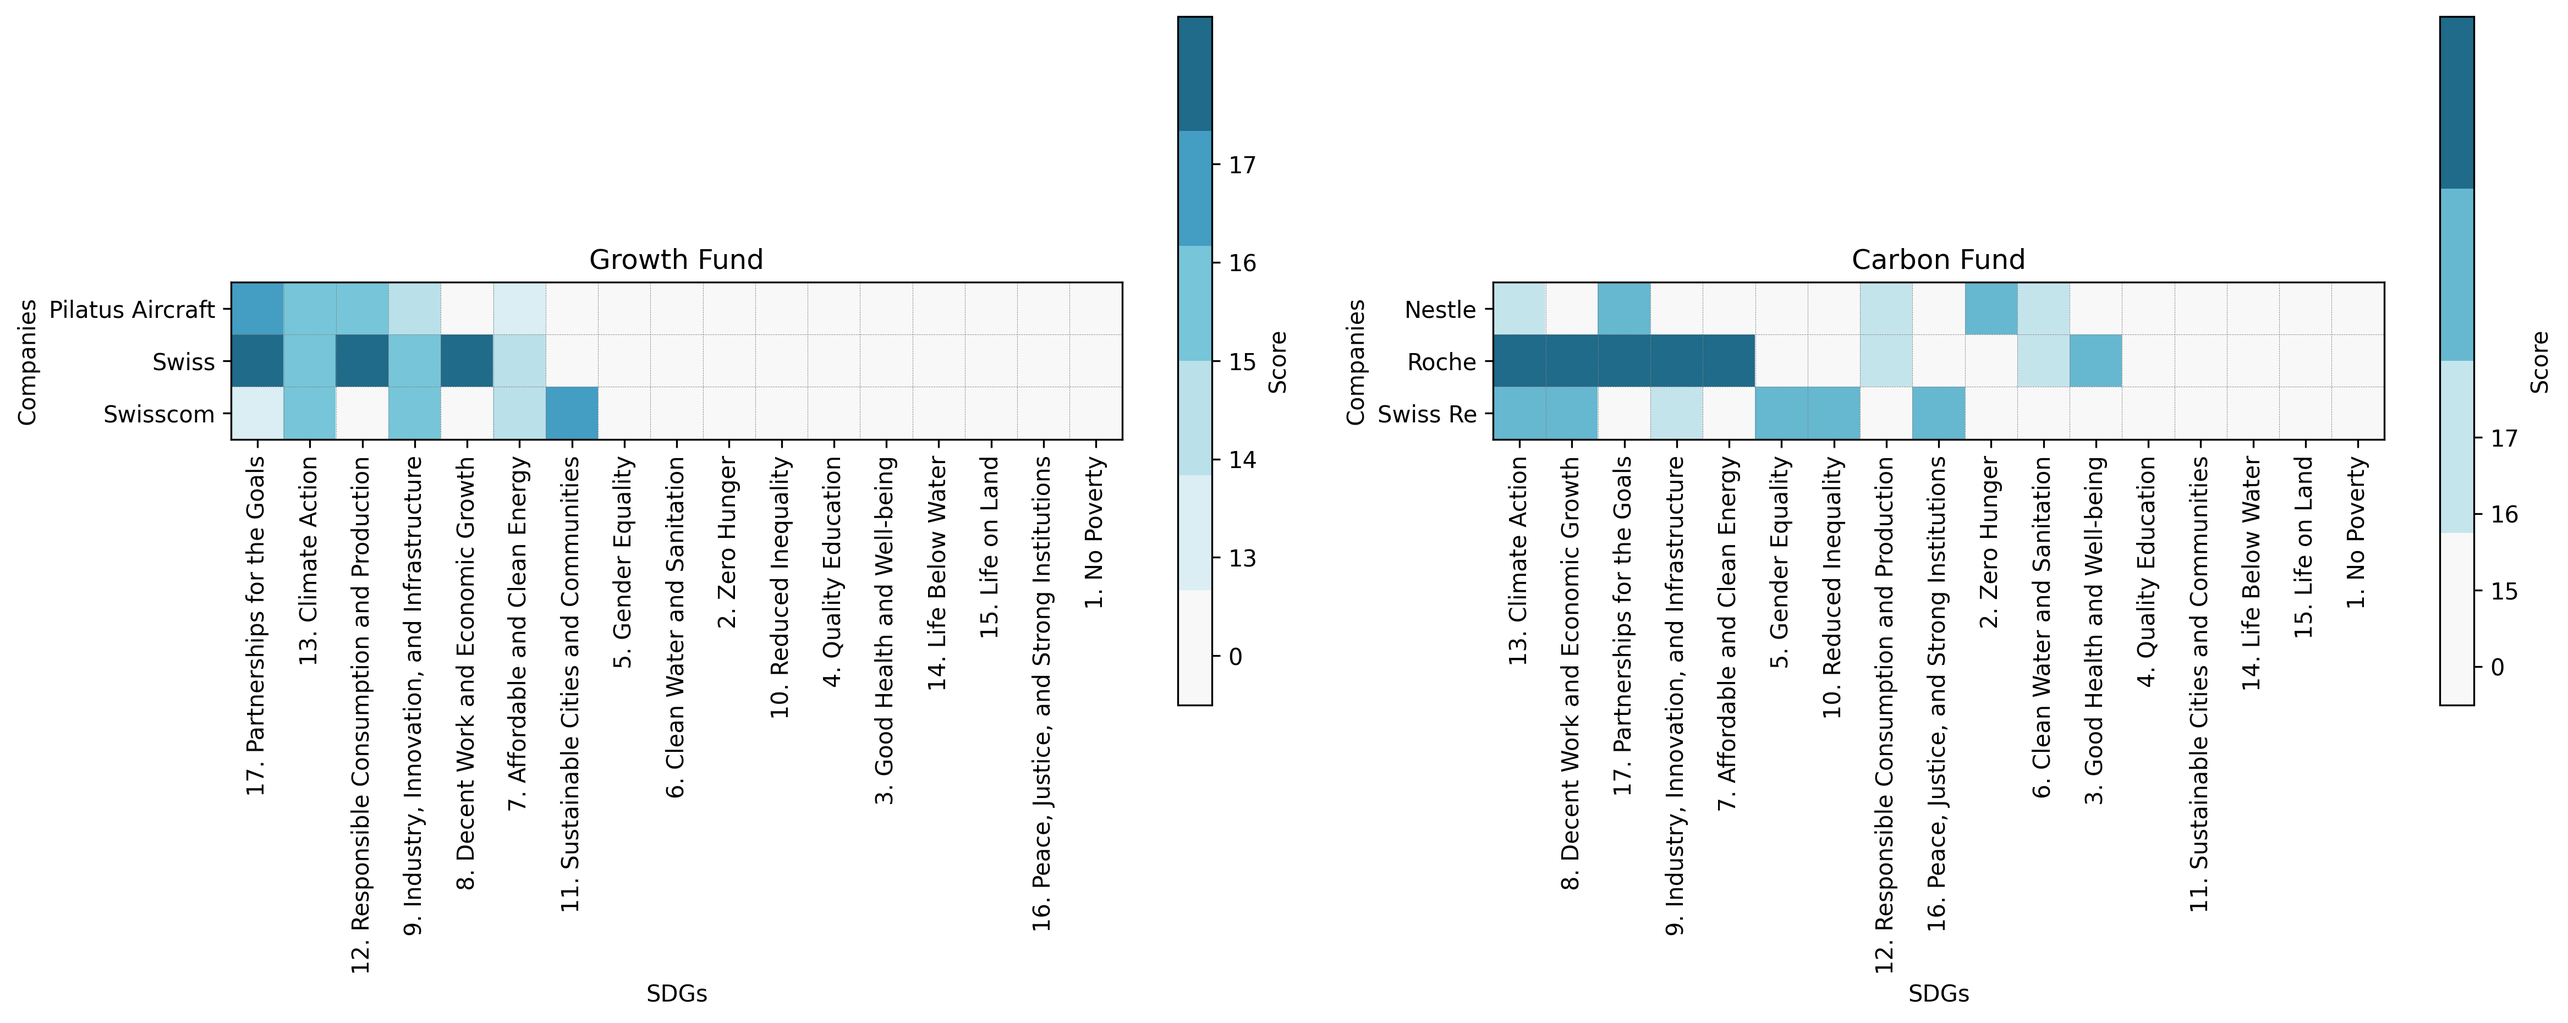
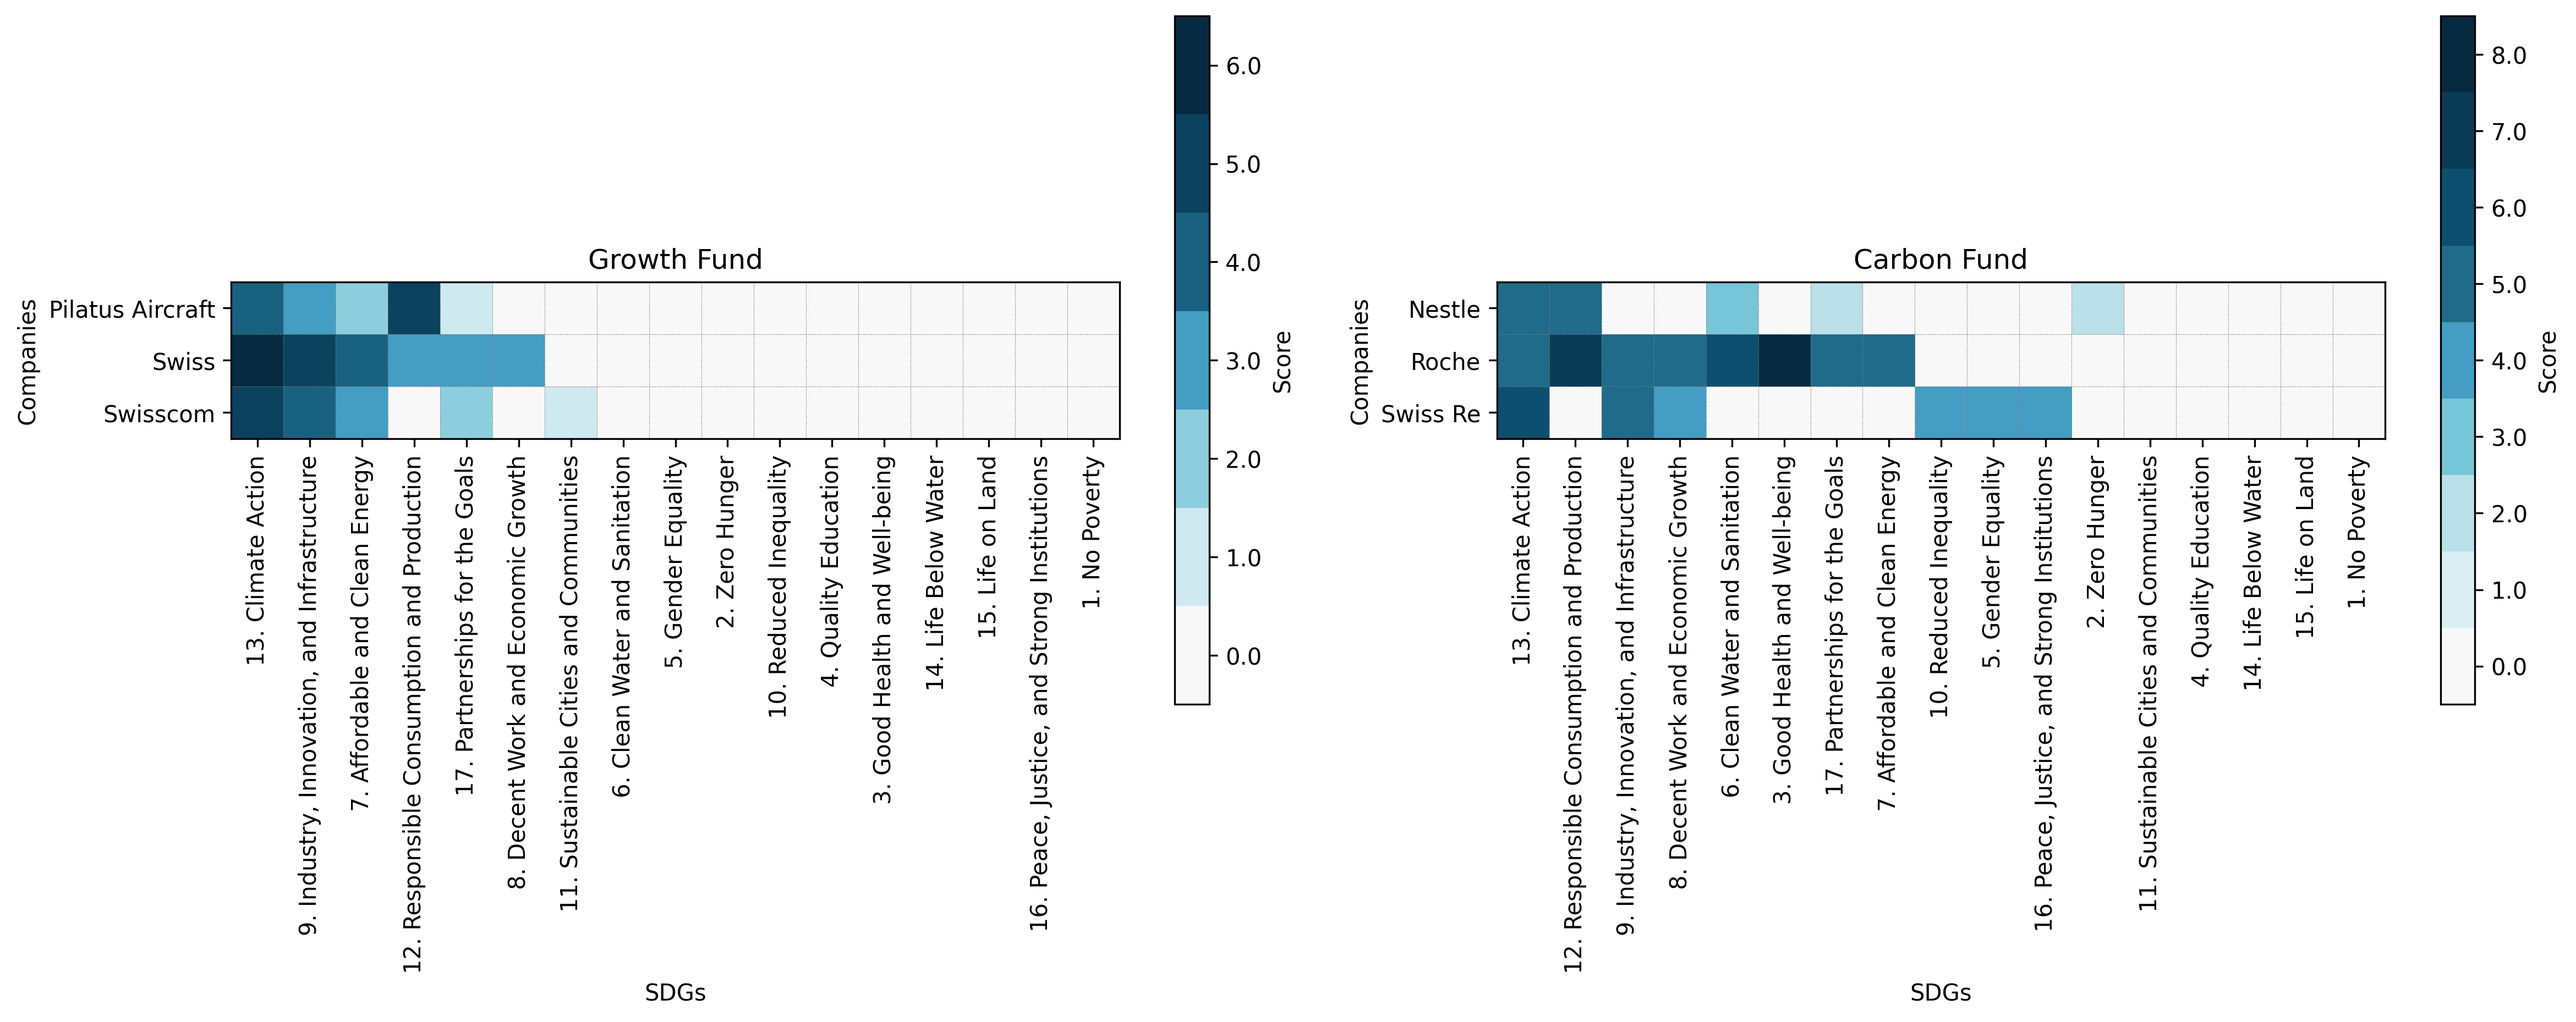
update ouput plots

diff --git a/CODE/results.py b/CODE/results.py
@@ -68,10 +68,10 @@ def anonymised_graphic():
     growth_data = result.loc[fund_1].groupby(level=0).median() 
     # set zero values to nan
     growth_data = growth_data.replace(1, np.nan)
-    growth_data = growth_data.rank(axis=1, method='max', ascending=False)
+    growth_data = growth_data.rank(axis=1, method='max', ascending=True) # False if scaled after
     growth_data = growth_data.fillna(0)
     # replace 1 with 4, 2 with 3, 3 with 2, 4 with 1
-    growth_data = growth_data.replace({1: 4, 2: 3, 3: 2, 4: 1})
+    # growth_data = growth_data.replace({1: 4, 2: 3, 3: 2, 4: 1})
     # sort by sum of columns
     growth_data = growth_data.loc[sorted(fund_1), growth_data.sum(axis=0).sort_values(ascending=False).index]
 
@@ -93,10 +93,10 @@ def anonymised_graphic():
     carbon_data = result.loc[fund_2].groupby(level=0).median() #.apply(lambda x: x.where(x == 1, x - carbon_temp_min + 2)) - 1
     # set zero values to nan
     carbon_data = carbon_data.replace(1, np.nan)
-    carbon_data = carbon_data.rank(axis=1, method='max', ascending=False)
+    carbon_data = carbon_data.rank(axis=1, method='max', ascending=True) # False if scaled after
     carbon_data = carbon_data.fillna(0)
     # replace 1 with 4, 2 with 3, 3 with 2, 4 with 1
-    carbon_data = carbon_data.replace({1: 4, 2: 3, 3: 2, 4: 1})
+    # carbon_data = carbon_data.replace({1: 4, 2: 3, 3: 2, 4: 1})
     # sort by sum of columns
     carbon_data = carbon_data.loc[sorted(fund_2), carbon_data.sum(axis=0).sort_values(ascending=False).index]
 
@@ -153,6 +153,124 @@ def anonymised_graphic():
 
     plt.tight_layout()
     # plt.show()
+
+    # Save the figure
+    fig.savefig(os.path.join(cfg.PATH.OUTPUT_PLOT, 'grid_graphic_org.png'), dpi=300, bbox_inches='tight')
+
+def grid_graphic():
+    # data for current run
+    df_4 = get_ranks()
+    df_4 = df_4.fillna(17).apply(lambda x: (18-x.astype(int))).groupby(level=0)
+    q1 = df_4.quantile(0.25)
+    q3 = df_4.quantile(0.75)
+    iqr = q3 - q1
+    # filter out values which are equal/greater 4 times the iqr
+    result = df_4.apply(lambda x: x.where(iqr <= 4, 0))
+
+    # PLOT
+    # Define hex colors
+    colors = ['#F8F8F8', '#DAEEF3', '#BAE0EA', '#77C5D8', '#449DC2', '#206A8A', '#0D4F6E', '#0A3C57', '#072A40']
+
+    # Code for fund_1
+    growth_result_dicts = result.loc[fund_1].groupby(level=0).median().apply(lambda x: {i: k for i, k in zip(x.index, x.values) if k > 1}, axis=1)
+    growth_temp_min = []
+    growth_temp_max = []
+
+    for i in growth_result_dicts:
+        if len(i) == 0:
+            continue
+        growth_temp_min.append(min(i.values()))
+        growth_temp_max.append(max(i.values()))
+
+    growth_temp_min = int(min(growth_temp_min)) 
+    growth_temp_max = int(max(growth_temp_max)) 
+    growth_N_colors = growth_temp_max - growth_temp_min + 1 + 1
+
+    growth_data = result.loc[fund_1].groupby(level=0).median() 
+    # set zero values to nan
+    growth_data = growth_data.replace(1, np.nan)
+    growth_data = growth_data.rank(axis=1, method='max', ascending=True) # False if scaled after
+    growth_data = growth_data.fillna(0)
+    # replace 1 with 4, 2 with 3, 3 with 2, 4 with 1
+    # growth_data = growth_data.replace({1: 4, 2: 3, 3: 2, 4: 1})
+    # sort by sum of columns
+    growth_data = growth_data.loc[sorted(fund_1), growth_data.sum(axis=0).sort_values(ascending=False).index]
+
+    # Code for fund_2
+    carbon_result_dicts = result.loc[fund_2].groupby(level=0).median().apply(lambda x: {i: k for i, k in zip(x.index, x.values) if k > 1}, axis=1)
+    carbon_temp_min = []
+    carbon_temp_max = []
+
+    for i in carbon_result_dicts:
+        if len(i) == 0:
+            continue
+        carbon_temp_min.append(min(i.values()))
+        carbon_temp_max.append(max(i.values()))
+
+    carbon_temp_min = int(min(carbon_temp_min)) + 1
+    carbon_temp_max = int(max(carbon_temp_max)) + 1
+    carbon_N_colors = carbon_temp_max - carbon_temp_min + 1  # + 1
+
+    carbon_data = result.loc[fund_2].groupby(level=0).median() #.apply(lambda x: x.where(x == 1, x - carbon_temp_min + 2)) - 1
+    # set zero values to nan
+    carbon_data = carbon_data.replace(1, np.nan)
+    carbon_data = carbon_data.rank(axis=1, method='max', ascending=True) # False if scaled after
+    carbon_data = carbon_data.fillna(0)
+    # replace 1 with 4, 2 with 3, 3 with 2, 4 with 1
+    # carbon_data = carbon_data.replace({1: 4, 2: 3, 3: 2, 4: 1})
+    # sort by sum of columns
+    carbon_data = carbon_data.loc[sorted(fund_2), carbon_data.sum(axis=0).sort_values(ascending=False).index]
+
+    # Set up subplots
+    fig, axs = plt.subplots(1, 2, figsize=(16, 6))
+
+    # Generate growth fund heatmap
+    growth_cmap_name = 'custom_colormap'
+    growth_cm = LinearSegmentedColormap.from_list(growth_cmap_name, colors, N=(growth_N_colors+1))
+    # growth_cm = LinearSegmentedColormap.from_list(growth_cmap_name, colors, N=len(colors))  # Use len(colors) for number of colors
+
+    growth_ticks = np.arange(np.min(growth_data), np.max(growth_data) + 1)  # Generate ticks
+    heatmap_growth = axs[0].imshow(growth_data, cmap=growth_cm, vmin=np.min(growth_data) - 0.5, vmax=np.max(growth_data) + 0.5)
+    cbar_growth = fig.colorbar(heatmap_growth, ax=axs[0], ticks=growth_ticks, label='Score')  # Use specified ticks
+    cbar_growth.set_ticklabels(growth_ticks)  # Set tick labels
+
+    axs[0].set_xticks(np.arange(len(growth_data.columns)))
+    axs[0].set_xticklabels(growth_data.columns, rotation=90)
+    axs[0].set_yticks(range(len(growth_data.index)))
+    axs[0].set_yticklabels(growth_data.index)
+    axs[0].set_xlabel('SDGs')
+    axs[0].set_ylabel('Companies')
+
+    # Generate carbon fund heatmap
+    carbon_cmap_name = 'custom_colormap'
+    # carbon_cm = LinearSegmentedColormap.from_list(carbon_cmap_name, colors, N=carbon_N_colors)
+    carbon_cm = LinearSegmentedColormap.from_list(carbon_cmap_name, colors, N=len(colors))  # Use len(colors) for number of colors
+
+    carbon_ticks = np.arange(np.min(carbon_data), np.max(carbon_data) + 1)  # Generate ticks
+    heatmap_carbon = axs[1].imshow(carbon_data, cmap=carbon_cm, vmin=np.min(carbon_data) - 0.5, vmax=np.max(carbon_data) + 0.5)
+    cbar_carbon = fig.colorbar(heatmap_carbon, ax=axs[1], ticks=carbon_ticks, label='Score')  # Use specified ticks
+    cbar_carbon.set_ticklabels(carbon_ticks)  # Set tick labels
+
+    axs[1].set_xticks(range(len(carbon_data.columns)))
+    axs[1].set_xticklabels(carbon_data.columns, rotation=90)
+    axs[1].set_yticks(range(len(carbon_data.index)))
+    axs[1].set_yticklabels(carbon_data.index)
+    axs[1].set_xlabel('SDGs')
+    axs[1].set_ylabel('Companies')
+
+    # add title Carbon Fund on top of first heatmap
+    axs[0].set_title('Growth Fund')
+    axs[1].set_title('Carbon Fund')
+
+    for position in np.arange(.5, len(growth_data.columns), 1):
+        axs[0].axvline(x=position, color='gray', linestyle='--', linewidth=0.2)
+        axs[1].axvline(x=position, color='gray', linestyle='--', linewidth=0.2)
+
+    for position in np.arange(.5, len(growth_data.index), 1):
+        axs[0].axhline(y=position, color='gray', linestyle='--', linewidth=0.2)
+        if position < 10: axs[1].axhline(y=position, color='gray', linestyle='--', linewidth=0.2)
+
+    plt.tight_layout()
 
     # Save the figure
     fig.savefig(os.path.join(cfg.PATH.OUTPUT_PLOT, 'grid_graphic.png'), dpi=300, bbox_inches='tight')

diff --git a/run.py b/run.py
@@ -112,6 +112,7 @@ class SDGexpert():
 
         # anonymised graphic current run
         results.anonymised_graphic()
+        results.grid_graphic()
 
 
 if __name__ == "__main__":
